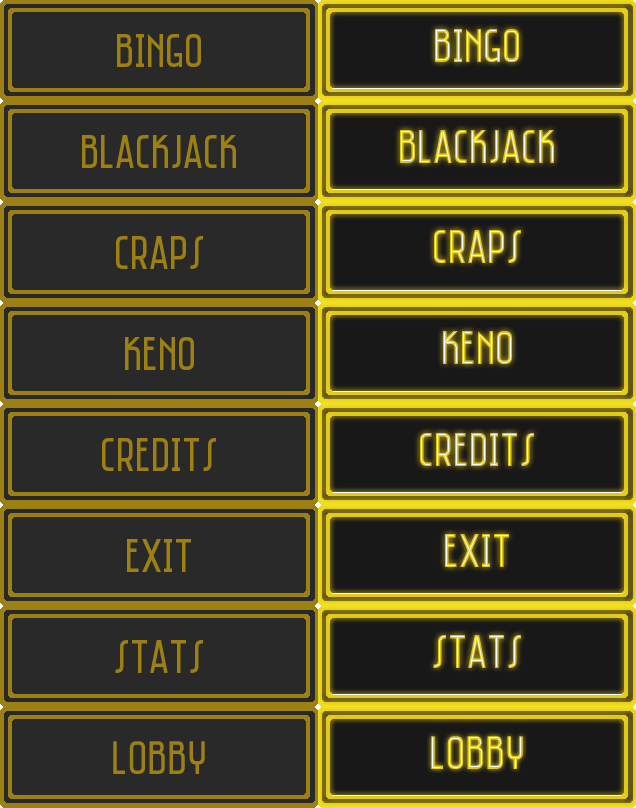
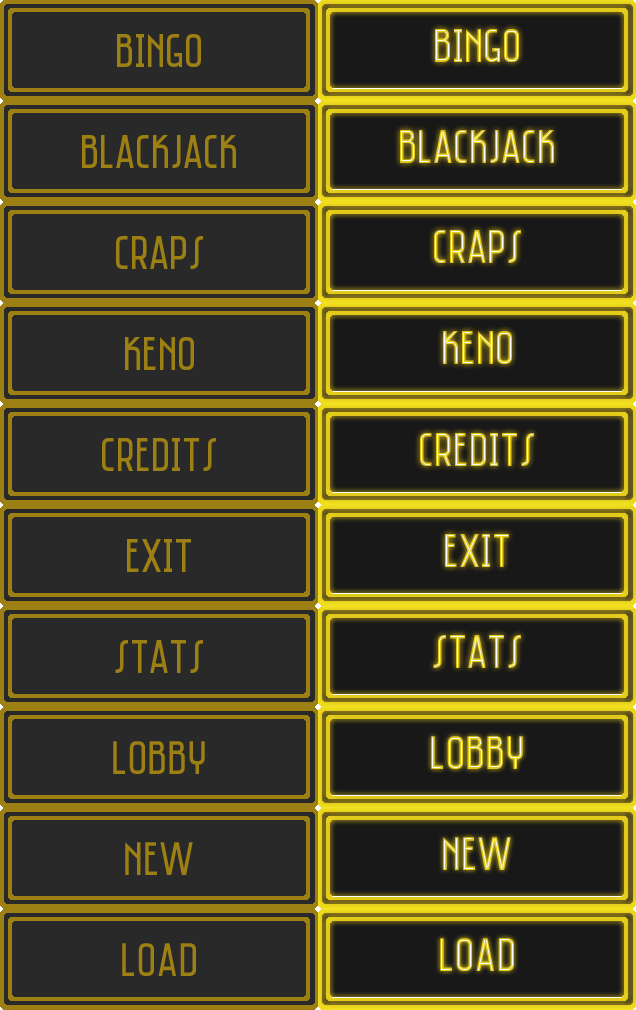
New buttons on title and stats.

diff --git a/data/states/title_screen.py b/data/states/title_screen.py
@@ -1,8 +1,9 @@
 import os
 import json
 import pygame as pg
+
 from .. import tools, prepare
-from ..components.labels import Label, Blinker, MarqueeFrame, Button
+from ..components.labels import Label, Blinker, MarqueeFrame, NeonButton
 from ..components.casino_player import CasinoPlayer
 from ..components.cards import Deck
 from ..components.music_handler import MusicHandler
@@ -31,25 +32,21 @@ class TitleScreen(tools._State):
         self.title.on = True
         self.title2.on = True
 
-        b_width = 180
-        b_height = 80
-        left = screen_rect.centerx - (b_width / 2)
-        top = self.title2.rect.bottom + 100
-        new_game = Label(font, 32, "New Game", "goldenrod3",
-                                     {"center": (0, 0)})
-        self.new_game_button = Button(left, top, b_width, b_height, new_game)
+        b_width = 318
+        left = screen_rect.centerx-(b_width//2)
+        top = self.title2.rect.bottom + 150
+        self.new_game_button = NeonButton((left, top), "New")
         self.new_game_button.active = False
         top = self.new_game_button.rect.bottom + 50
-        load_game = Label(font, 32, "Load Game", "goldenrod3",
-                                         {"center": (0, 0)})
-        self.load_game_button = Button(left, top, b_width, b_height, load_game)
+        self.load_game_button = NeonButton((left, top), "Load")
         self.load_game_button.active = False
         self.buttons = [self.new_game_button, self.load_game_button]
 
         try:
-            with open(os.path.join("resources", "save_game.json")) as saved_file:
+            path = os.path.join("resources", "save_game.json")
+            with open(path) as saved_file:
                 stats = json.load(saved_file)
-        except:
+        except IOError:
             stats = None
         self.stats = stats
         self.screen_rect = screen_rect
@@ -70,7 +67,8 @@ class TitleScreen(tools._State):
             self.quit = True
         elif event.type == pg.MOUSEBUTTONDOWN:
             pos = tools.scaled_mouse_pos(scale, event.pos)
-            self.title.rect.centerx = self.title2.rect.centerx = self.screen_rect.centerx
+            self.title.rect.centerx = self.screen_rect.centerx
+            self.title2.rect.centerx = self.screen_rect.centerx
             if self.new_game_button.rect.collidepoint(pos):
                 if self.new_game_button.active:
                     self.persist["casino_player"] = CasinoPlayer()
@@ -81,6 +79,9 @@ class TitleScreen(tools._State):
                     self.done = True
 
     def update(self, surface, keys, current_time, dt, scale):
+        mouse_pos = tools.scaled_mouse_pos(scale)
+        for button in self.buttons:
+            button.update(mouse_pos)
         if self.title.rect.centerx < self.screen_rect.centerx:
             self.title.rect.left += 10
         if self.title2.rect.centerx > self.screen_rect.centerx:

diff --git a/data/states/credits_screen.py b/data/states/credits_screen.py
@@ -3,7 +3,7 @@ from itertools import cycle
 
 import pygame as pg
 from .. import tools, prepare
-from ..components.labels import Label
+from ..components.labels import Label, NeonButton
 from ..components.flair_pieces import Spinner, Roller, Fadeout, ChipCurtain
 
 
@@ -88,6 +88,11 @@ class CreditsScreen(tools._State):
         self.zipper_blocks =[]
         self.zipper_block = None
         self.chip_curtain = None
+        b_width = 318
+        b_height = 101
+        self.done_button = NeonButton((self.screen.centerx-(b_width//2),
+                                      self.screen.bottom - (b_height + 10)),
+                                      "Lobby")
 
     def startup(self, current_time, persistent):
         self.persist = persistent
@@ -119,8 +124,14 @@ class CreditsScreen(tools._State):
             self.done = True
         elif event.type == pg.KEYUP and event.key == pg.K_ESCAPE:
             self.done = True
+        elif event.type == pg.MOUSEBUTTONDOWN:
+            pos = tools.scaled_mouse_pos(scale, event.pos)
+            if self.done_button.rect.collidepoint(pos):
+                self.done = True
 
     def update(self, surface, keys, current_time, dt, scale):
+        mouse_pos = tools.scaled_mouse_pos(scale)
+        self.done_button.update(mouse_pos)
         if self.zipper_block:
             self.zipper_block.update()
             if self.zipper_block.done:
@@ -158,3 +169,4 @@ class CreditsScreen(tools._State):
                 spinner.draw(surface)
         if self.chip_curtain:
             self.chip_curtain.draw(surface)
+        self.done_button.draw(surface)

diff --git a/data/components/labels.py b/data/components/labels.py
@@ -221,19 +221,18 @@ class Button(object):
 
 class NeonButton(object):
     """Neon sign style button that glows on mouseover."""
-    def __init__(self, lefttop, text):
+    def __init__(self, lefttop, text, payload=None):
         on = "neon_button_on_{}".format(text.lower())
         off = "neon_button_off_{}".format(text.lower())
-        self.payload = text
+        self.payload = payload or text
         self.on_image = prepare.GFX[on]
         self.off_image = prepare.GFX[off]
         self.on = False
+        self.active = True
         self.rect = self.on_image.get_rect(topleft=lefttop)
 
     def update(self, mouse_pos):
-        self.on = False
-        if self.rect.collidepoint(mouse_pos):
-            self.on = True
+        self.on = self.rect.collidepoint(mouse_pos)
 
     def draw(self, surface):
         img = self.on_image if self.on else self.off_image
@@ -250,6 +249,7 @@ class ImageButton(object):
     def draw(self, surface):
         surface.blit(self.image, self.rect)
         self.label.draw(surface)
+
 
 class PayloadButton(Button):
     """A button that holds a "payload" value."""

diff --git a/data/states/lobby_screen.py b/data/states/lobby_screen.py
@@ -3,7 +3,7 @@ import json
 import pygame as pg
 
 from .. import tools, prepare
-from ..components.labels import Label, Button, PayloadButton, ImageButton, NeonButton
+from ..components.labels import Label, Button, ImageButton, NeonButton
 from ..components.flair_pieces import ChipCurtain
 from ..components.music_handler import MusicHandler
 
@@ -92,7 +92,8 @@ class LobbyScreen(tools._State):
         mouse_pos = tools.scaled_mouse_pos(scale)
         self.chip_curtain.update(dt)
         self.persist["music_handler"].update(scale)
-        for button in [self.stats_button, self.done_button, self.credits_button]:
+        buttons = [self.stats_button, self.done_button, self.credits_button]
+        for button in buttons:
             button.update(mouse_pos)
         self.draw(surface)
 

diff --git a/data/prepare.py b/data/prepare.py
@@ -66,7 +66,7 @@ def _get_graphics_and_cards():
     b_height = 101
     b_sheet = gfx["button_sheet"]
     b_texts = ["Bingo", "Blackjack", "Craps", "Keno", "Credits",
-               "Exit", "Stats", "Lobby"]
+               "Exit", "Stats", "Lobby", "New", "Load"]
     b_top = 0
     for text in b_texts:
         off_rect = pg.Rect(0, b_top, b_width, b_height)
